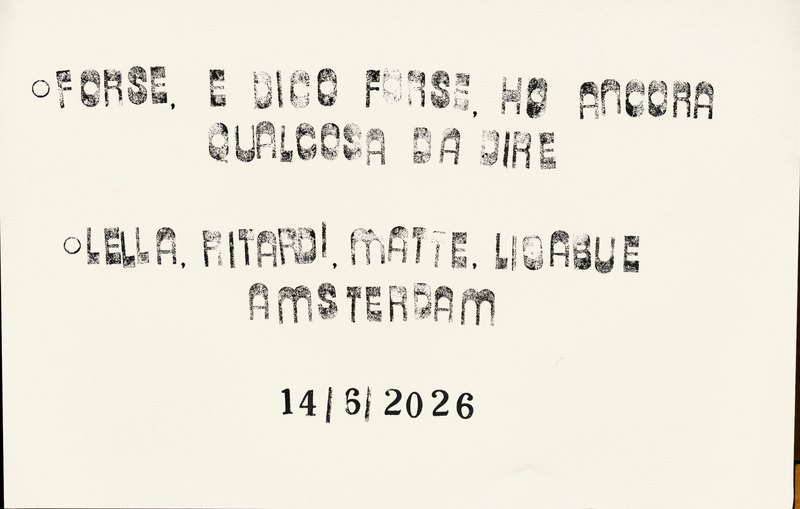
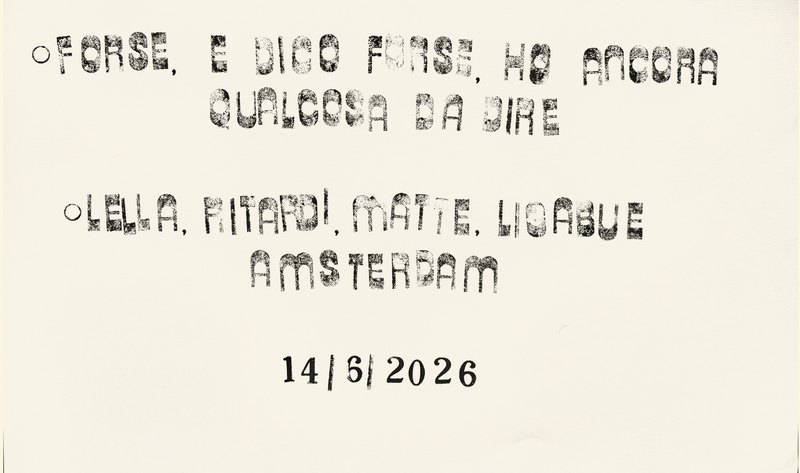
fix: 13/6 + 14/6 verificati con verifica_timbro.py (bianco intero, bordi puliti)

diff --git a/index.html b/index.html
@@ -662,21 +662,21 @@ section#timbri{ padding-top: clamp(160px, 18vw, 240px); }
 <section class="page" id="timbri">
   <div class="gallery" id="gallery">
     <figure class="work">
-      <div class="work-frame" style="--ratio: 63.61%;">
+      <div class="work-frame" style="--ratio: 59.11%;">
         <img src="foto_definitive/Timbro_2026-06-14.jpg"
              srcset="foto_definitive/thumbs/Timbro_2026-06-14.jpg 800w, foto_definitive/Timbro_2026-06-14.jpg 1800w"
              sizes="(max-width: 720px) 92vw, 720px"
-             width="1800" height="1145"
+             width="1800" height="1064"
              alt="14/6/26" loading="lazy" decoding="async" />
       </div>
       <figcaption class="work-caption"><span class="work-date">14/6/26</span></figcaption>
     </figure>
     <figure class="work">
-      <div class="work-frame" style="--ratio: 76.44%;">
+      <div class="work-frame" style="--ratio: 91.61%;">
         <img src="foto_definitive/Timbro_2026-06-13.jpg"
              srcset="foto_definitive/thumbs/Timbro_2026-06-13.jpg 800w, foto_definitive/Timbro_2026-06-13.jpg 1800w"
              sizes="(max-width: 720px) 92vw, 720px"
-             width="1800" height="1376"
+             width="1800" height="1649"
              alt="13/6/26" loading="lazy" decoding="async" />
       </div>
       <figcaption class="work-caption"><span class="work-date">13/6/26</span></figcaption>
